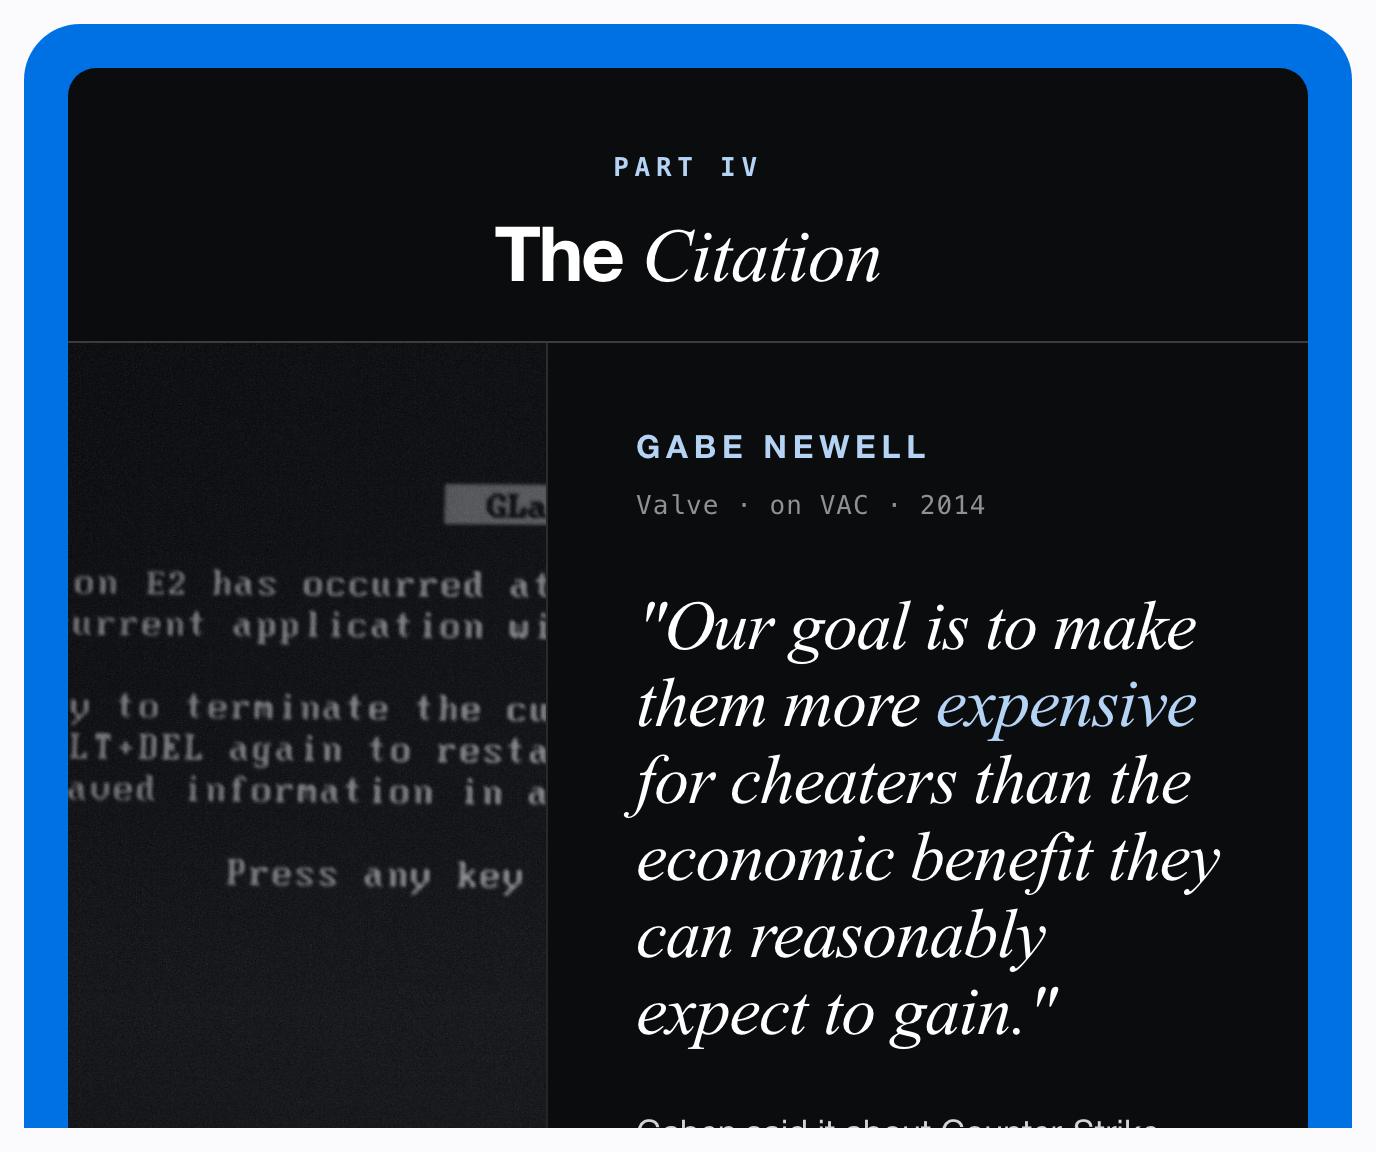
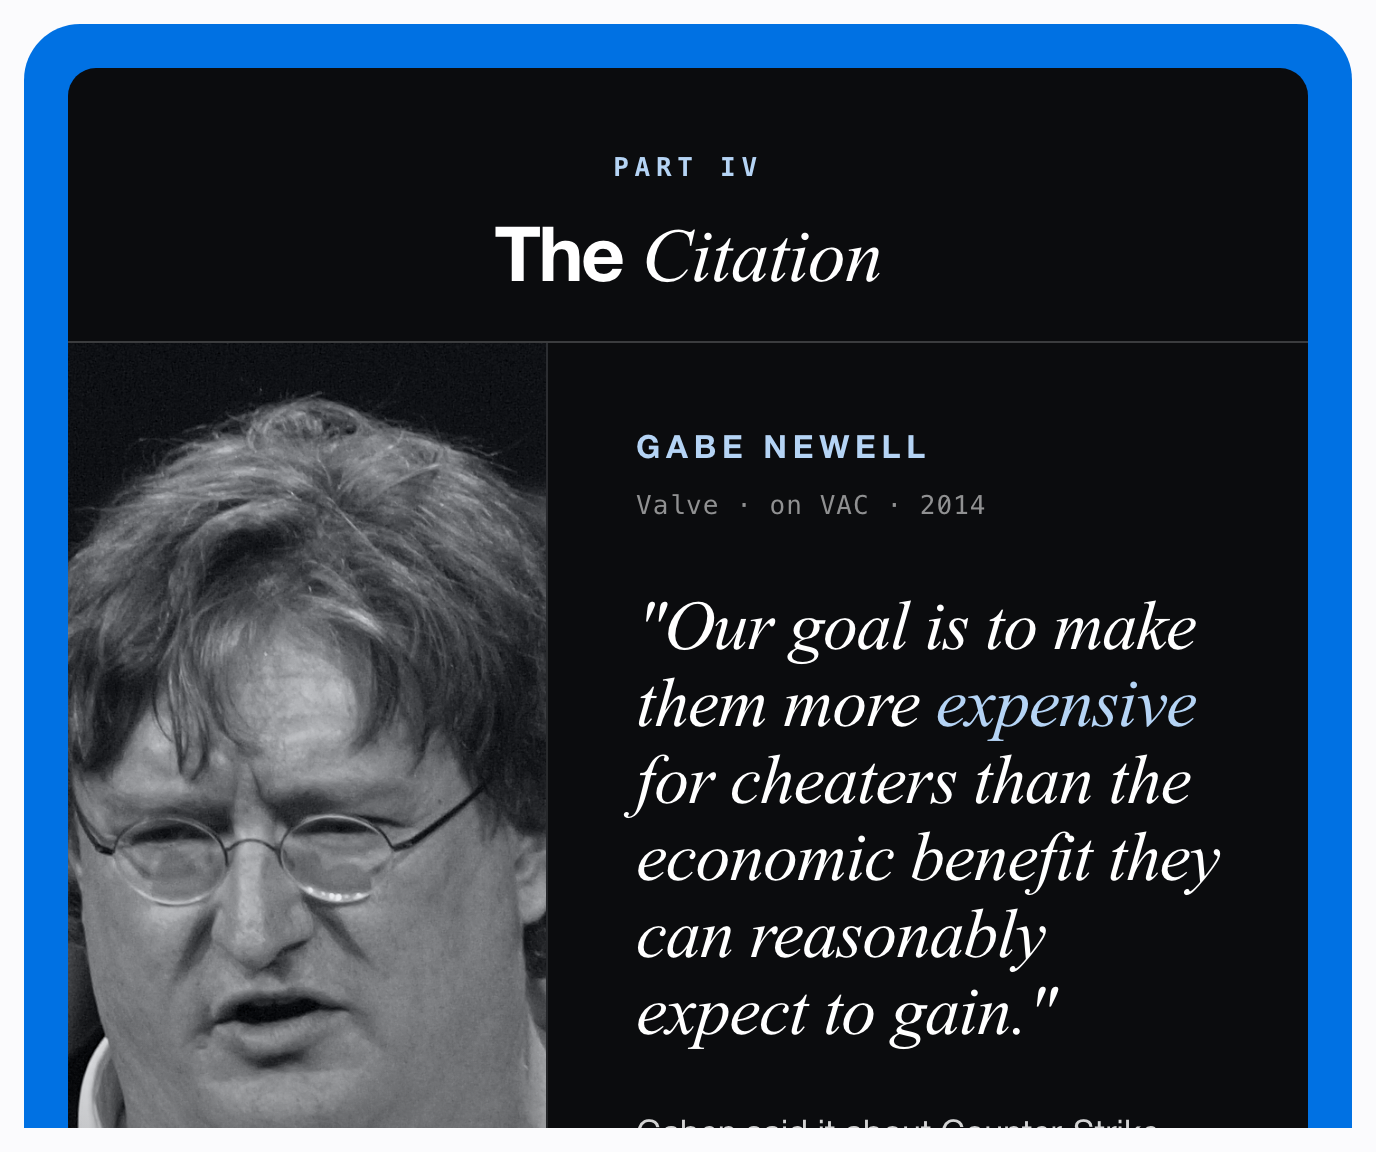
feat(case-study/anticheat): cleaner Gaben portrait, image-led paste-article
- Replaced gaben.jpg with the higher-quality cropped GDC 2010 head-and-
  shoulders shot from Wikimedia Commons (Gabe_Newell_GDC_2010_cropped_2,
  1177x1456) — face is no longer cropped or muddied behind the
  background blur of the wide-angle original.
- object-position tuned to 50% 35% for the new tighter frame, contrast
  bumped to 1.08 and brightness to 0.96 so the luminosity-blend
  rendering keeps definition without going gray-on-gray.
- Re-rendered all 16 card PNGs into /download/ to pick up the new
  portrait.
- paste-article.txt rewritten as image-led: 16 numbered placeholders
  (IMAGE 01 … IMAGE 16) interleaved with short Cioran connective
  sentences only. The cards carry the data; the prose is connective
  tissue and the closing knife. Roughly one third the prose of the
  previous version.

Changed region(s): [[0.0312, 0.3438, 0.4062, 1.0]]

diff --git a/frontend/public/case-studies/anticheat/index.html b/frontend/public/case-studies/anticheat/index.html
@@ -259,10 +259,10 @@ body {
   width: 100%;
   height: 100%;
   object-fit: cover;
-  object-position: 50% 28%;
-  filter: grayscale(100%) contrast(1.05) brightness(0.94);
+  object-position: 50% 35%;
+  filter: grayscale(100%) contrast(1.08) brightness(0.96);
   mix-blend-mode: luminosity;
-  opacity: 0.95;
+  opacity: 0.96;
 }
 .quote-portrait::after {
   content: '';
